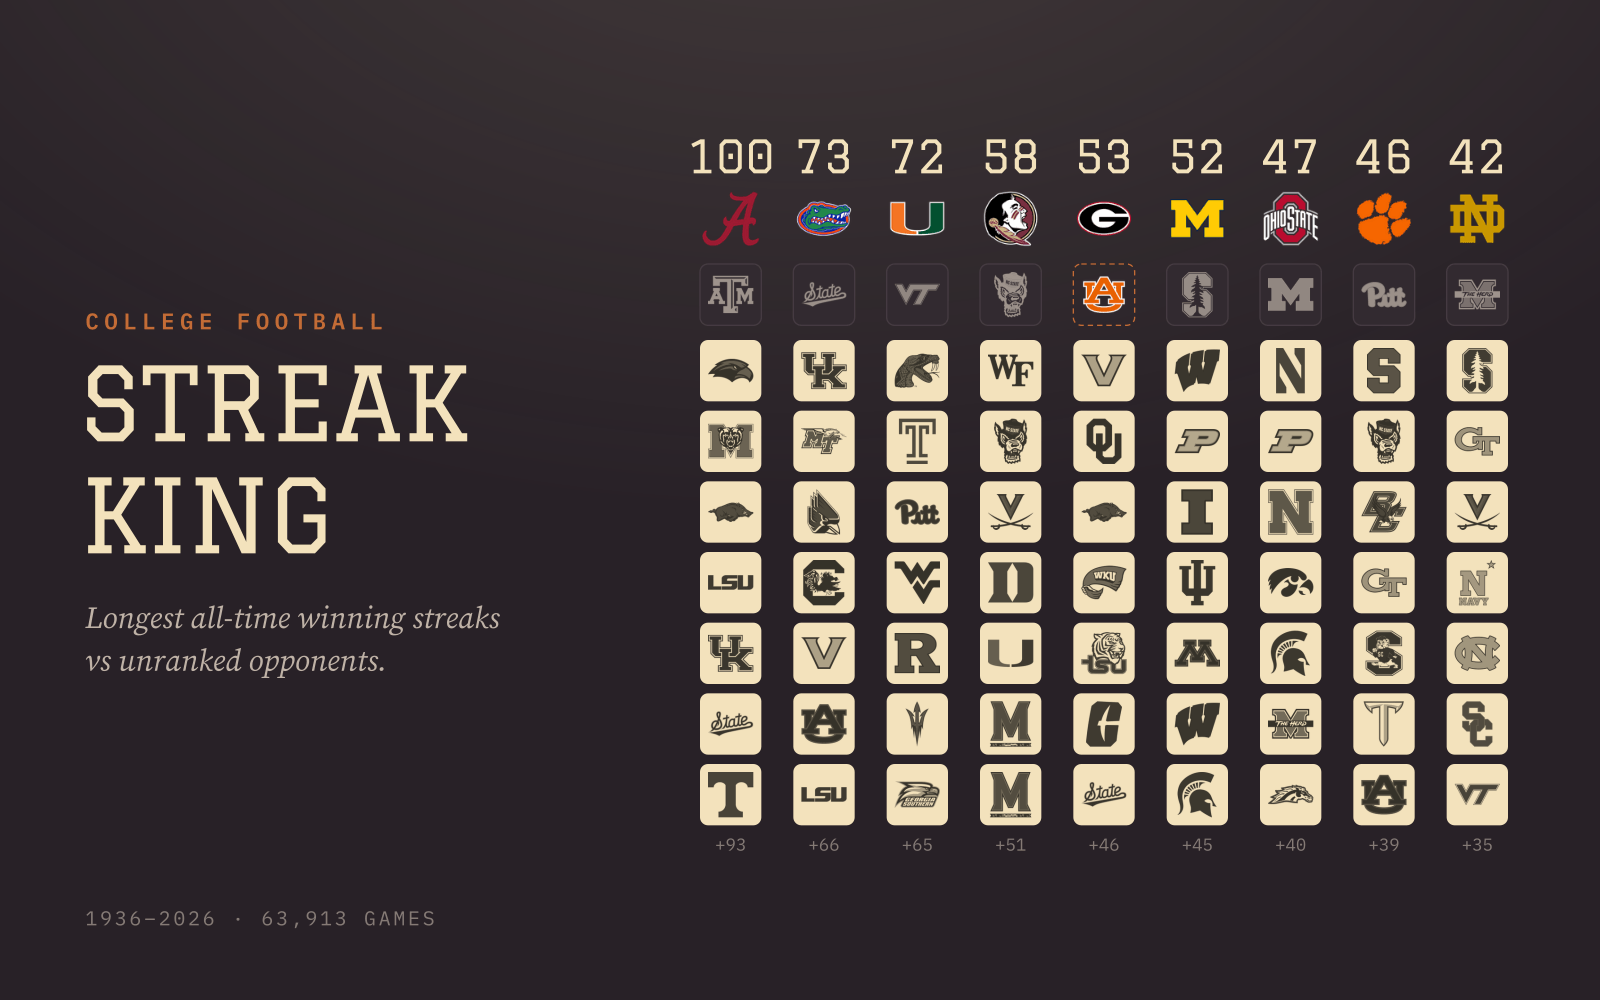
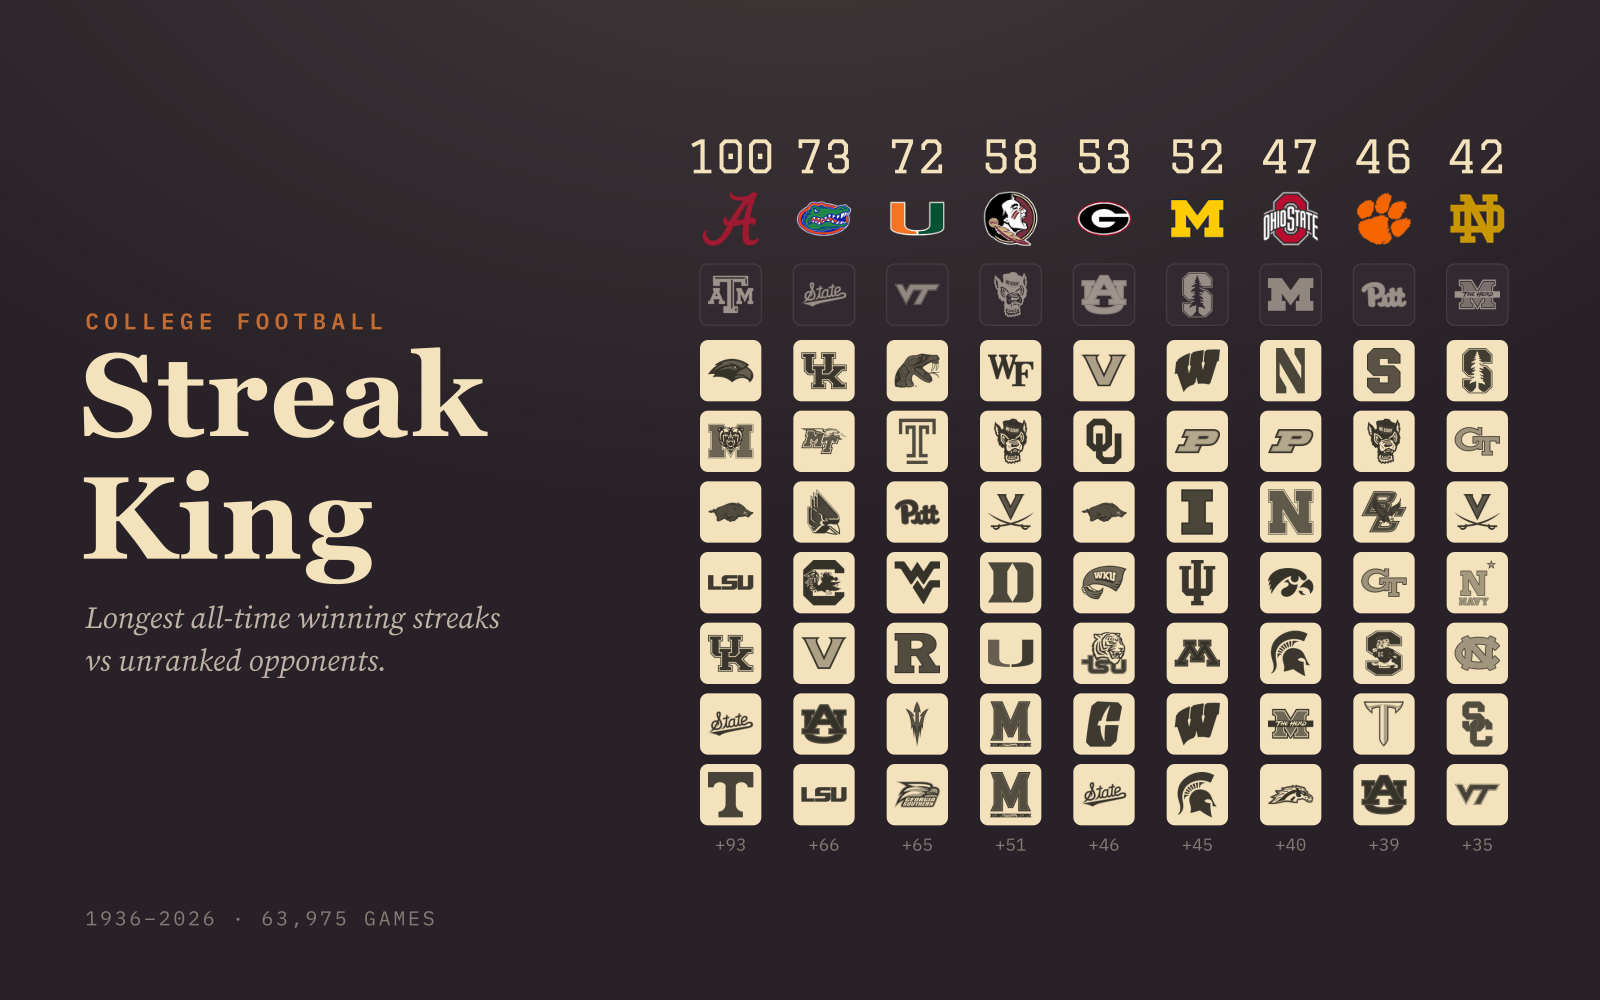
Title in Georgia Bold, the face Hostile Territory's poster uses: page h1 and the share image

Changed region(s): [[0.0312, 0.341, 0.3125, 0.589], [0.6562, 0.279, 0.7188, 0.31]]

diff --git a/index.html b/index.html
@@ -11,7 +11,7 @@
     <title>College Football Streak King</title>
     <link rel="preconnect" href="https://fonts.googleapis.com" />
     <link rel="preconnect" href="https://fonts.gstatic.com" crossorigin />
-    <link href="https://fonts.googleapis.com/css2?family=Graduate&amp;family=Source+Serif+4:ital,opsz,wght@0,8..60,400;0,8..60,600;1,8..60,400&amp;family=IBM+Plex+Mono:wght@400;500;600&amp;display=swap" rel="stylesheet" />
+    <link href="https://fonts.googleapis.com/css2?family=Graduate&amp;family=Source+Serif+4:ital,opsz,wght@0,8..60,400;0,8..60,600;0,8..60,700;1,8..60,400&amp;family=IBM+Plex+Mono:wght@400;500;600&amp;display=swap" rel="stylesheet" />
 
     <!-- Vite prefixes these with the base path at build time. -->
     <link rel="icon" type="image/svg+xml" href="/favicon.svg" />

diff --git a/src/styles.css b/src/styles.css
@@ -34,9 +34,9 @@ body::after {
 main { max-width: 980px; margin: 0 auto; padding: 28px 24px 80px; position: relative; z-index: 1; }
 
 h1 {
-  font-family: 'Graduate', serif; font-weight: 400; text-align: center;
+  font-family: Georgia, 'Source Serif 4', 'Times New Roman', serif; font-weight: 700; text-align: center;
   font-size: clamp(34px, 6vw, 56px); line-height: 1.08; margin: 12px 0 0; color: var(--cream);
-  letter-spacing: 0.03em;
+  letter-spacing: 0.02em;
 }
 
 /* dateline: provenance on the left, save + share on the right. Rust is
